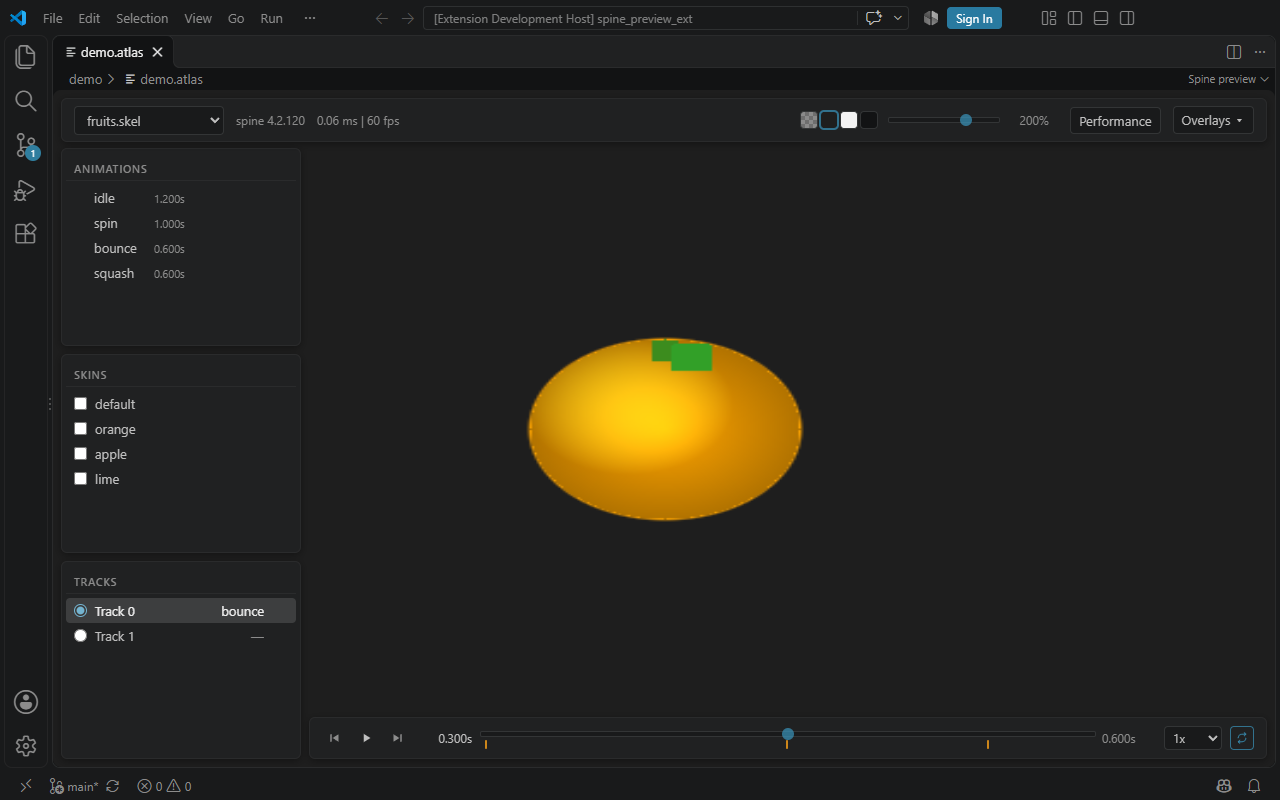
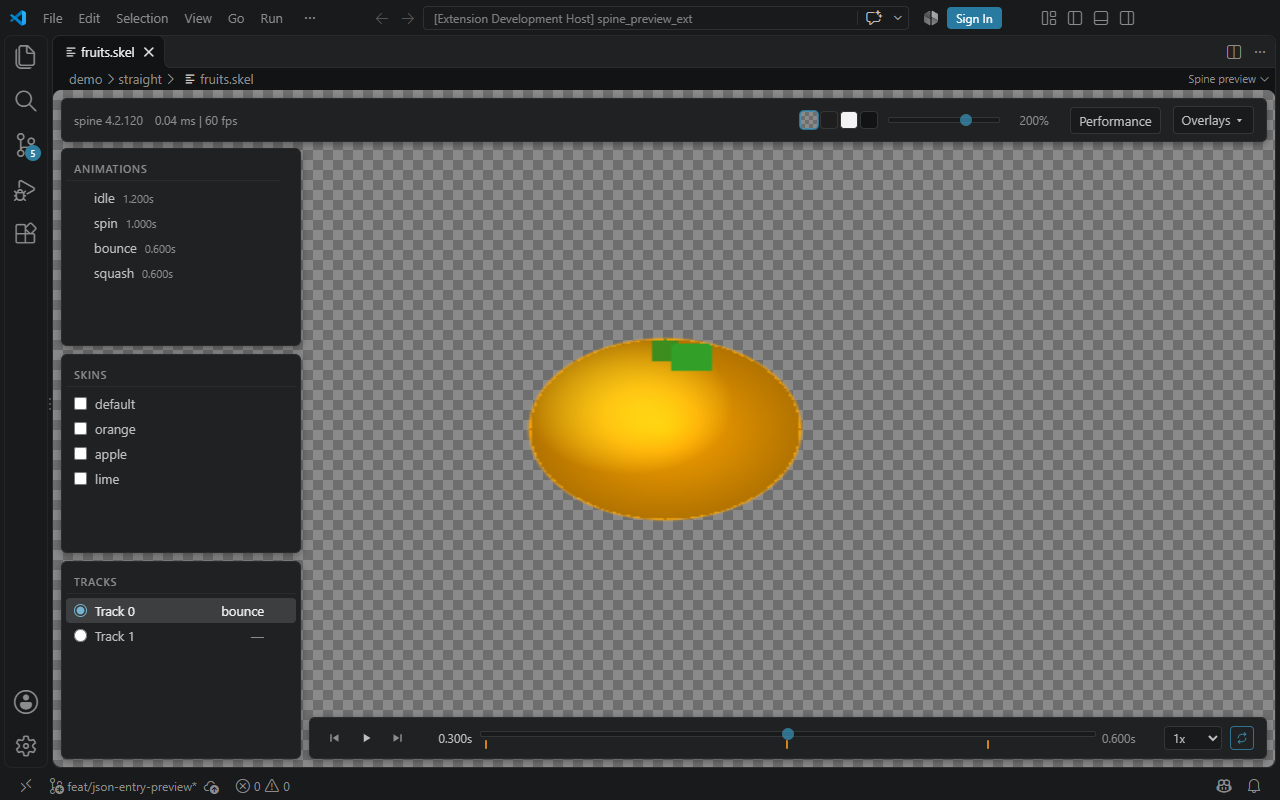
feat: open skeleton files directly in preview (4.0.0)

diff --git a/src/extension.ts b/src/extension.ts
@@ -3,26 +3,19 @@ import path = require('path');
 import fs = require('fs');
 import crypto = require('crypto');
 
-// Only the first few KB are read: a Spine export declares "skeleton" or "bones"
-// up front, so an unrelated file such as package.json never reaches the loader.
-const SKELETON_PROBE_BYTES = 4096;
-const SKELETON_KEY_PATTERN = /"(?:skeleton|bones)"\s*:/;
-
 type SpineEntry = { name: string; uri: string };
 
 const toScriptLiteral = (value: unknown) => JSON.stringify(value).replace(/</g, '\\u003c');
 
-async function isSkeletonJson(filePath: string): Promise<boolean> {
-  let handle: fs.promises.FileHandle | undefined;
+function isSpineDocument(document: vscode.TextDocument): boolean {
   try {
-    handle = await fs.promises.open(filePath, 'r');
-    const buffer = Buffer.alloc(SKELETON_PROBE_BYTES);
-    const { bytesRead } = await handle.read(buffer, 0, SKELETON_PROBE_BYTES, 0);
-    return SKELETON_KEY_PATTERN.test(buffer.subarray(0, bytesRead).toString('utf8'));
+    const data = JSON.parse(document.getText());
+    return (
+      data !== null && typeof data === 'object' && typeof data.skeleton?.spine === 'string' && Array.isArray(data.bones)
+    );
   } catch {
+    // Invalid JSON must remain available in the text editor for repair.
     return false;
-  } finally {
-    await handle?.close();
   }
 }
 
@@ -40,7 +33,7 @@ export function activate(context: vscode.ExtensionContext) {
   );
 }
 
-export class Provider implements vscode.CustomTextEditorProvider {
+export class Provider implements vscode.CustomReadonlyEditorProvider {
   private basePath: string;
 
   public static register(context: vscode.ExtensionContext): vscode.Disposable {
@@ -54,47 +47,81 @@ export class Provider implements vscode.CustomTextEditorProvider {
     this.basePath = context.extensionUri.fsPath;
   }
 
-  public async resolveCustomTextEditor(
-    document: vscode.TextDocument,
-    webviewPanel: vscode.WebviewPanel,
-  ): Promise<void> {
+  public openCustomDocument(uri: vscode.Uri): vscode.CustomDocument {
+    return { uri, dispose() {} };
+  }
+
+  public async resolveCustomEditor(document: vscode.CustomDocument, webviewPanel: vscode.WebviewPanel): Promise<void> {
+    const extension = path.extname(document.uri.fsPath).toLowerCase();
+    const isSkeleton =
+      extension === '.skel' ||
+      (extension === '.json' && isSpineDocument(await vscode.workspace.openTextDocument(document.uri)));
+    // Also reject stale user associations that still send .atlas files here.
+    if (!isSkeleton) {
+      const tab = vscode.window.tabGroups.all
+        .flatMap((group) => group.tabs)
+        .find(
+          ({ input, group }) =>
+            group.viewColumn === webviewPanel.viewColumn &&
+            input instanceof vscode.TabInputCustom &&
+            input.viewType === Provider.viewType &&
+            input.uri.toString() === document.uri.toString(),
+        );
+      await vscode.commands.executeCommand('vscode.openWith', document.uri, 'default', {
+        viewColumn: webviewPanel.viewColumn,
+        preserveFocus: tab ? !tab.group.isActive : !webviewPanel.active,
+        preview: tab?.isPreview ?? true,
+      });
+      if (tab) {
+        // Close only the original custom-editor tab and preserve the active group.
+        if (tab.group.tabs.includes(tab)) await vscode.window.tabGroups.close(tab, true);
+      } else {
+        webviewPanel.dispose();
+      }
+      return;
+    }
+
     webviewPanel.webview.options = {
       enableScripts: true,
       localResourceRoots: [vscode.Uri.file(path.dirname(document.uri.fsPath)), vscode.Uri.file(this.basePath)],
     };
-    const atlasUri = webviewPanel.webview.asWebviewUri(document.uri);
-    webviewPanel.webview.html = await this.getHtmlForWebview(webviewPanel.webview, atlasUri, document.uri.fsPath);
-  }
-
-  private async collectSpines(webview: vscode.Webview, directory: string): Promise<SpineEntry[]> {
-    let entries: fs.Dirent[];
     try {
-      entries = await fs.promises.readdir(directory, { withFileTypes: true });
-    } catch {
-      return [];
+      const atlasPath = await this.findAtlas(document.uri.fsPath);
+      const atlasUri = webviewPanel.webview.asWebviewUri(vscode.Uri.file(atlasPath));
+      const spines = [
+        {
+          name: path.basename(document.uri.fsPath),
+          uri: webviewPanel.webview.asWebviewUri(document.uri).toString(),
+        },
+      ];
+      webviewPanel.webview.html = this.getHtmlForWebview(webviewPanel.webview, atlasUri, spines);
+    } catch (error: unknown) {
+      const message = error instanceof Error ? error.message : String(error);
+      // Render the error as text, never interpolate filenames as HTML.
+      const escaped = message.replace(/&/g, '&amp;').replace(/</g, '&lt;').replace(/>/g, '&gt;');
+      webviewPanel.webview.html = `<!DOCTYPE html><html lang="en"><head><meta charset="UTF-8"><meta http-equiv="Content-Security-Policy" content="default-src 'none'"></head><body><h2>Could not open Spine preview</h2><p>${escaped}</p><p>Use Reopen Editor With… → Text Editor to view or edit the JSON.</p></body></html>`;
     }
-
-    const candidates = entries.filter((e) => e.isFile() && /\.(json|skel)$/i.test(e.name));
-    const probed = await Promise.all(
-      candidates.map(async (e) => {
-        const filePath = path.join(directory, e.name);
-        return {
-          name: e.name,
-          uri: webview.asWebviewUri(vscode.Uri.file(filePath)).toString(),
-          isSkeleton: e.name.toLowerCase().endsWith('.skel') || (await isSkeletonJson(filePath)),
-        };
-      }),
-    );
-
-    return probed.filter((p) => p.isSkeleton).map(({ name, uri }) => ({ name, uri }));
   }
 
-  private async getHtmlForWebview(
-    webview: vscode.Webview,
-    atlasUri: vscode.Uri,
-    documentPath: string,
-  ): Promise<string> {
-    const spines = await this.collectSpines(webview, path.dirname(documentPath));
+  private async findAtlas(documentPath: string): Promise<string> {
+    const directory = path.dirname(documentPath);
+    const entries = await fs.promises.readdir(directory, { withFileTypes: true });
+    const atlases = entries.filter((entry) => entry.isFile() && path.extname(entry.name).toLowerCase() === '.atlas');
+    const matchingName = `${path.basename(documentPath, path.extname(documentPath))}.atlas`;
+    const match = atlases.find((entry) => entry.name.toLowerCase() === matchingName.toLowerCase());
+    if (match) return path.join(directory, match.name);
+    if (atlases.length === 1) return path.join(directory, atlases[0].name);
+    if (atlases.length === 0) {
+      throw new Error(
+        'No .atlas file next to this Spine skeleton. Export the atlas and textures into the same folder.',
+      );
+    }
+    throw new Error(
+      `Several atlases found: ${atlases.map(({ name }) => name).join(', ')}. Give the matching atlas the same base name as the skeleton.`,
+    );
+  }
+
+  private getHtmlForWebview(webview: vscode.Webview, atlasUri: vscode.Uri, spines: SpineEntry[]): string {
     const webviewScript = webview.asWebviewUri(vscode.Uri.file(path.join(this.basePath, 'out', 'webview', 'app.js')));
     const nonce = crypto.randomBytes(32).toString('base64');
     const csp = [

diff --git a/src/webview/app.tsx b/src/webview/app.tsx
@@ -157,9 +157,11 @@ export function App({
   if (skeletonErrors[selectedFile] !== undefined) {
     return (
       <>
-        <div class="panel title-container" data-panel>
-          <FileSelector files={SPINES} errors={skeletonErrors} selected={selectedFile} onChange={setSelectedFile} />
-        </div>
+        {SPINES.length > 1 && (
+          <div class="panel title-container" data-panel>
+            <FileSelector files={SPINES} errors={skeletonErrors} selected={selectedFile} onChange={setSelectedFile} />
+          </div>
+        )}
         <Notice kind="error" title={`Could not load ${selectedFile}`} detail={skeletonErrors[selectedFile]} />
       </>
     );
@@ -168,7 +170,9 @@ export function App({
   return (
     <>
       <div class="panel title-container" data-panel>
-        <FileSelector files={SPINES} errors={skeletonErrors} selected={selectedFile} onChange={setSelectedFile} />
+        {SPINES.length > 1 && (
+          <FileSelector files={SPINES} errors={skeletonErrors} selected={selectedFile} onChange={setSelectedFile} />
+        )}
         <StatusBar version={version} statsRef={statsRef} texturePages={texturePages} />
         <Controls
           zoom={zoom}

diff --git a/README.md b/README.md
@@ -4,18 +4,29 @@
 
 ## usage
 
-Open any `.atlas` file. Every Spine skeleton (`.json` or binary `.skel`) next to it is loaded and
-listed in the dropdown, so one atlas can serve several skeletons.
+Open a Spine `.json` or binary `.skel` directly in Explorer to preview that
+skeleton alone, without a skeleton dropdown. Recognition requires `skeleton.spine`
+and a `bones` array. Other JSON files, including invalid JSON, are opened in VS Code's
+text editor. This makes the extension a default editor candidate for all `*.json`;
+existing user editor associations can override it.
+VS Code may activate the target editor group when a JSON custom editor is opened
+programmatically with `preserveFocus`, before the extension checks its contents.
+
+The atlas and textures must be beside the JSON. An atlas with the same base name
+is preferred; otherwise the only `.atlas` in that folder is used. Missing or
+ambiguous atlases show an explanation rather than selecting an arbitrary file.
+To inspect or edit a Spine JSON, use **Reopen Editor With… → Text Editor** on its
+tab, or **Open With… → Text Editor** in Explorer. Preview does not yet auto-reload
+after edits; reopen it to load saved changes.
+
+Atlas files open as text in VS Code. They are supporting assets, not preview entry points.
 
 Use Spine 4.2 exports to match the bundled runtime. JSON and binary skeletons
 can share the same folder and atlas.
 
-If a skeleton fails to load, it is marked `(failed)` in the dropdown. Select it
-to see its error, or choose another skeleton to continue previewing. A missing
-or broken shared atlas still prevents the whole preview from loading.
+If a skeleton or its atlas fails to load, the preview shows its error.
 
-For a binary test scene, open `demo/straight/demo.atlas` and select `fruits.skel` or
-`vegetables.skel`.
+For a binary test scene, open `demo/straight/fruits.skel` or `demo/straight/vegetables.skel`.
 
 The status bar shows **PMA** when the selected skeleton uses premultiplied alpha.
 Hover or focus the badge to see the affected texture pages. The same **PMA** badge
@@ -25,7 +36,7 @@ an omitted `pma` field is treated as false by the Spine runtime.
 Only pages referenced by the selected skeleton's attachments are counted,
 including all skins and sequence frames, regardless of the current pose.
 
-Open `demo/pma/demo.atlas` for one atlas with a PMA page and a straight-alpha page:
+Open the JSON files in `demo/pma` to compare skeletons sharing an atlas:
 
 - `pma.json` uses only `pma.png`: **PMA**. Normal disc on the left, Additive on the right.
 - `straight.json` uses only `straight.png`: no PMA badge, with the same two discs.
@@ -90,7 +101,7 @@ when the panel is closed; this is CPU elapsed time, not GPU time or CPU usage pe
 
 ## blend mode demo
 
-Open `demo/straight/demo.atlas`, select `drawcall-stress.json`, then play `blend-modes-test`
+Open `demo/straight/drawcall-stress.json`, then play `blend-modes-test`
 on Track 0 with other tracks empty and Performance open. Each phase lasts one
 second: Normal, Additive, Multiply, Screen, all four, then no rendered slots.
 The six-second loop has named event markers for seeking. A light-gray Normal

diff --git a/CHANGELOG.md b/CHANGELOG.md
@@ -1,5 +1,20 @@
 # Changelog
 
+## [4.0.0] - 2026-11-17
+
+### Breaking changes
+
+- Open a Spine `.json` or binary `.skel` directly from Explorer instead of opening
+  an atlas and selecting a skeleton from a dropdown. Preview only the selected file.
+- Atlas files now open as text, including when old explicit editor associations
+  still point to Spine preview. Remove folder-wide skeleton discovery.
+
+### Features
+
+- Redirect other JSON and invalid JSON to the standard text editor.
+- Resolve an adjacent atlas by matching base name or by the only atlas in the
+  folder; explain missing and ambiguous atlas choices.
+
 ## [3.12.0] - 2026-11-16
 
 ### Features
